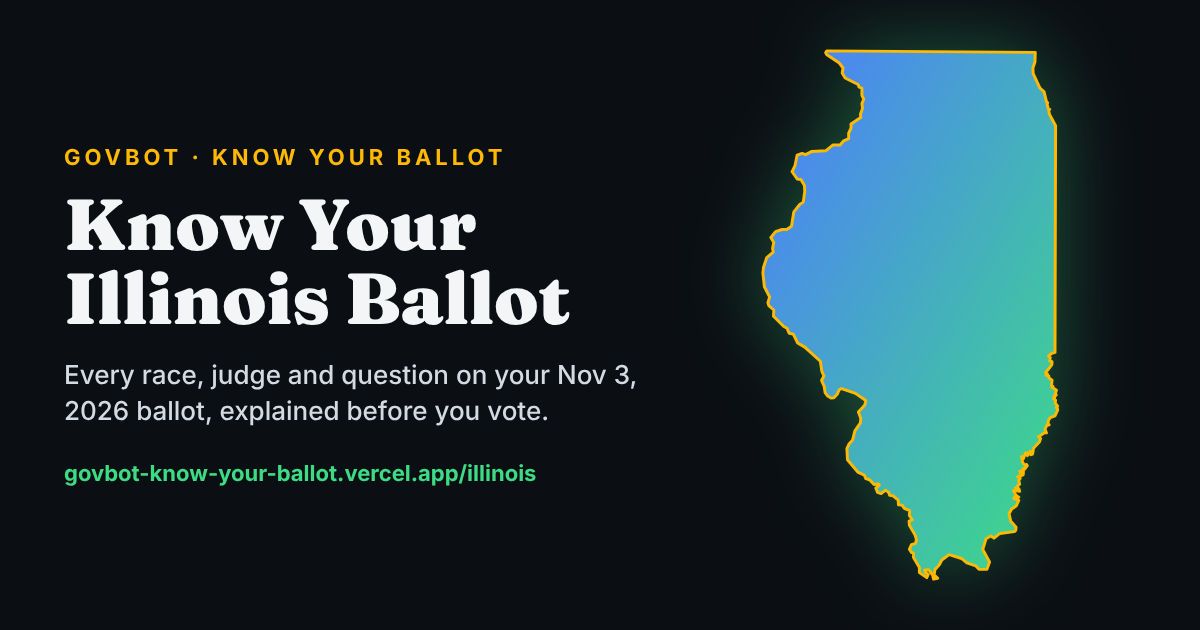
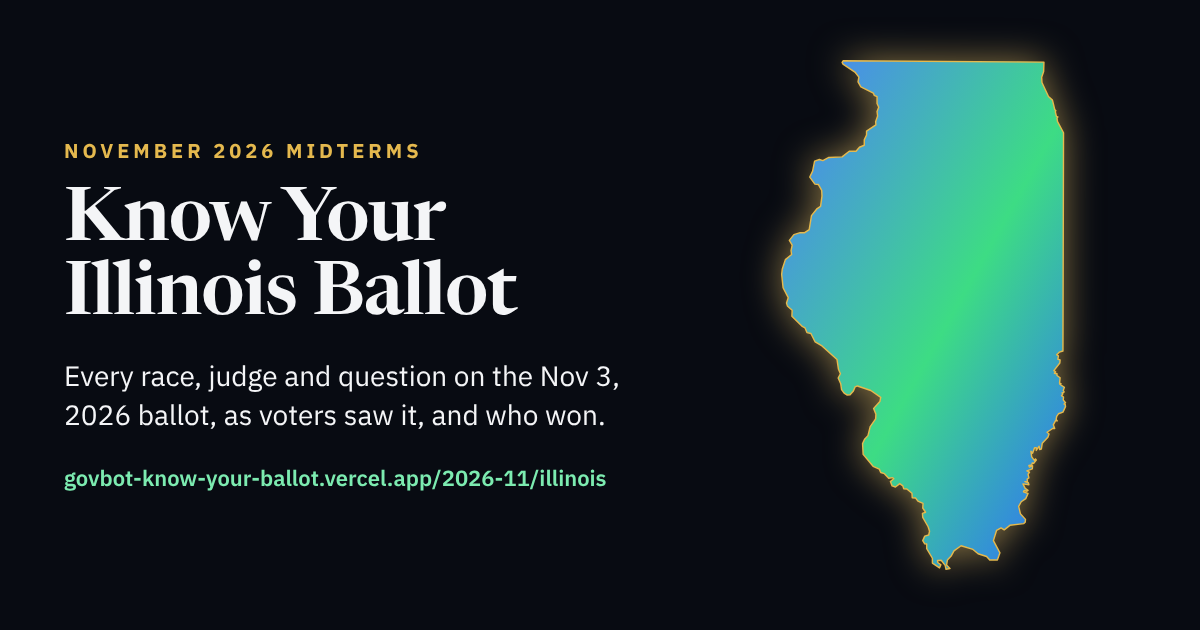
Share previews: new pictures and text for the site after the election
Each state's picture now says 'November 2026 Midterms', 'as voters saw it,
and who won' and its /2026-11/<state> address; the home picture and text
describe the site election by election, with past ballots kept. The
pictures are drawn from the built site by scripts/og-images.mjs (its fonts,
colours and maps), and each image address carries a hash of the picture,
so social apps fetch a new one fresh instead of showing their copy of the
old.

Claude-Session: https://claude.ai/code/session_012kcoJKD7mtVcyM8mKidaUq

diff --git a/vite.config.ts b/vite.config.ts
@@ -1,5 +1,6 @@
 import tailwindcss from '@tailwindcss/vite';
 import react from '@vitejs/plugin-react';
+import { createHash } from 'node:crypto';
 import { mkdirSync, readFileSync, writeFileSync } from 'node:fs';
 import path from 'node:path';
 import { defineConfig } from 'vite';
@@ -14,15 +15,18 @@ import { held } from './src/seo/faq';
 // root and each state's page. Each state's page is a copy of the app shell
 // with its own tags, written to dist/2026-11/<state>/ (its address, src/hosts.ts),
 // which vercel.json serves for that path. The pictures are
-// public/kyb-og/*.png.
+// public/kyb-og/*.png (drawn by scripts/og-images.mjs), each address carrying
+// a hash of its picture, so a new picture is fetched fresh, not served from
+// a social app's copy of the old one.
 const SITE = 'https://govbot-know-your-ballot.vercel.app';
+const ogImage = (img: string) => `${SITE}/kyb-og/${img}.png?v=${createHash('sha256').update(readFileSync(`public/kyb-og/${img}.png`)).digest('hex').slice(0, 8)}`;
 // Past Election Day (when the site is built) a guide describes the ballot that was.
 const HELD = held();
 const guideDesc = (what: string, name: string) => HELD
-  ? `${what} on the Nov 3, 2026 ${name} ballot, as voters saw it. Free, open source and non-partisan, built on Govbot.`
+  ? `${what} on the Nov 3, 2026 ${name} ballot, as voters saw it, and who won. Free, open source and non-partisan, built on Govbot.`
   : `${what} on your Nov 3, 2026 ${name} ballot, explained before you vote. Free, open source and non-partisan, built on Govbot.`;
 const PAGES: Record<string, { title: string; desc: string; img: string }> = {
-  '': { title: 'Govbot Know Your Ballot', desc: 'Your exact ballot by address: every race, judge and question, who’s running and who’s funding them. Illinois, Michigan, Minnesota and Wisconsin, built on Govbot.', img: 'home' },
+  '': { title: 'Govbot Know Your Ballot', desc: 'What’s on your ballot, election by election: every race, judge and question, who’s running, who’s funding them and who won. Illinois, Michigan, Minnesota and Wisconsin, built on Govbot.', img: 'home' },
   illinois: { title: 'Know Your Illinois Ballot', desc: guideDesc('Every race, judge and question', 'Illinois'), img: 'illinois' },
   michigan: { title: 'Know Your Michigan Ballot', desc: guideDesc('Every race, judge and proposal', 'Michigan'), img: 'michigan' },
   minnesota: { title: 'Know Your Minnesota Ballot', desc: guideDesc('Every race, judge and the amendment', 'Minnesota'), img: 'minnesota' },
@@ -48,13 +52,13 @@ const metaFor = (page: string) => {
     `<meta property="og:title" content="${esc(title)}" />`,
     `<meta property="og:description" content="${esc(desc)}" />`,
     `<meta property="og:url" content="${url}" />`,
-    `<meta property="og:image" content="${SITE}/kyb-og/${img}.png" />`,
+    `<meta property="og:image" content="${ogImage(img)}" />`,
     `<meta property="og:image:width" content="1200" />`,
     `<meta property="og:image:height" content="630" />`,
     `<meta name="twitter:card" content="summary_large_image" />`,
     `<meta name="twitter:title" content="${esc(title)}" />`,
     `<meta name="twitter:description" content="${esc(desc)}" />`,
-    `<meta name="twitter:image" content="${SITE}/kyb-og/${img}.png" />`,
+    `<meta name="twitter:image" content="${ogImage(img)}" />`,
   ].join('\n    ');
 };
 const TITLE = /<title>[^<]*<\/title>/;
